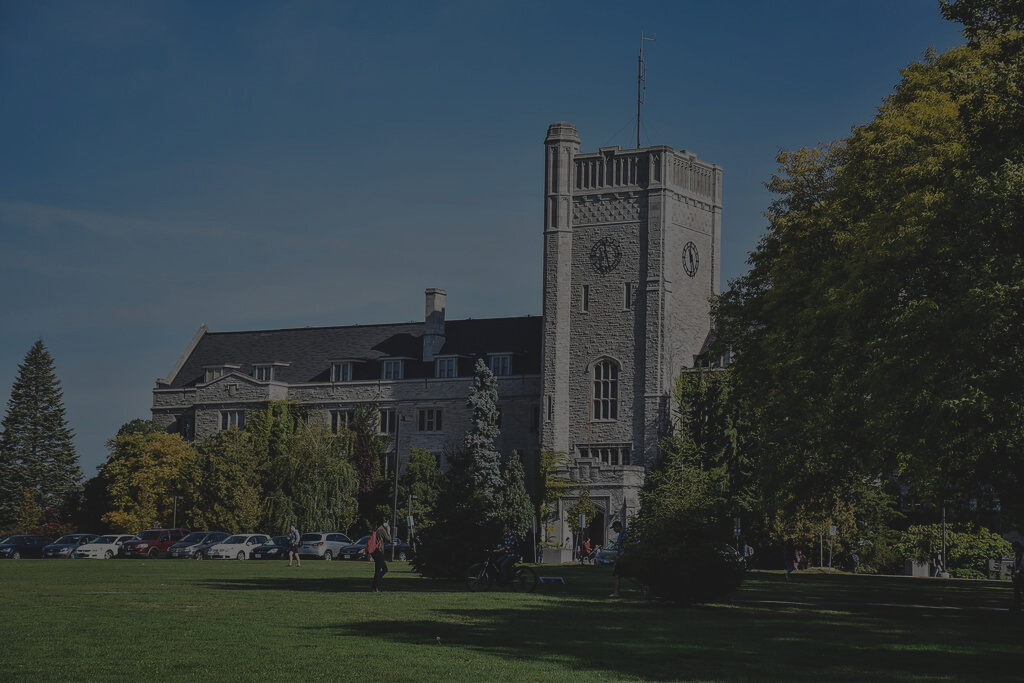
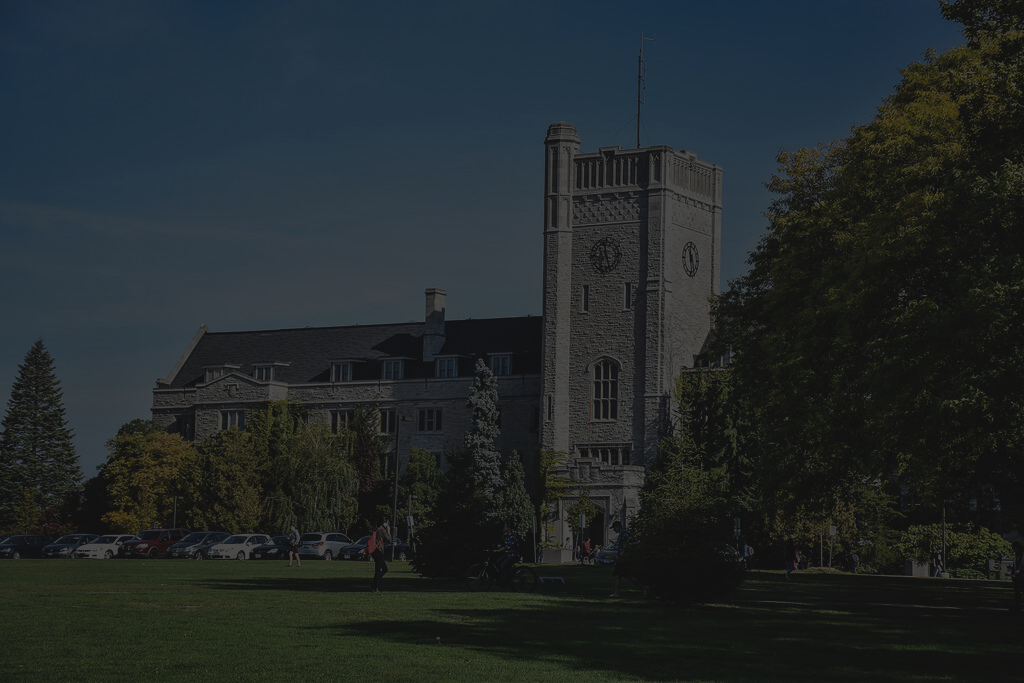
Bug fixes

diff --git a/findmyclass/src/app/components/Navbar.jsx b/findmyclass/src/app/components/Navbar.jsx
@@ -1,25 +1,31 @@
+"use client";
 import Link from "next/link";
 import Image from "next/image";
 
 export default function Navbar() {
+  const reloadSite = () => {
+    window.location.replace("/");
+  };
+
   return (
     <div className="bg-black pt-6 pb-6">
       <nav className="flex flex-row justify-center items-center">
-        <Link href="/" className="navBarLink">
-          <button className="flex flex-row text-white font-sans font-bold text-3xl ml-5 ">
-            FindMy
-            <p className="text-blue-700">
-              <em>Class</em>
-            </p>
-            <Image
-              src="/images/magnifiying.png"
-              alt="Magnifiying pic"
-              width={25}
-              height={25}
-              className="ml-1 "
-            />
-          </button>
-        </Link>
+        <button
+          onClick={reloadSite}
+          className="flex flex-row text-white font-sans font-bold text-3xl ml-5 "
+        >
+          FindMy
+          <p className="text-blue-700">
+            <em>Class</em>
+          </p>
+          <Image
+            src="/images/magnifiying.png"
+            alt="Magnifiying pic"
+            width={25}
+            height={25}
+            className="ml-1 "
+          />
+        </button>
       </nav>
     </div>
   );

diff --git a/findmyclass/src/app/page.js b/findmyclass/src/app/page.js
@@ -116,7 +116,7 @@ function PageContent() {
           <input
             type="text"
             className="p-3 w-full h-12 md:h-16 rounded-xl"
-            placeholder="Enter a classroom (e.g., ROZH103)"
+            placeholder="(e.g., ROZH103, THRN1027)"
             onChange={updateInput}
             value={inputValue}
           />

diff --git a/README.md b/README.md
@@ -1,0 +1,49 @@
+# FindMyClass
+
+Lost? Missed a turn? Introducing FindMyClass.
+
+FindMyClass is an innovative solution for all students at the University of Guelph. The full-stack application guides students to any class located on campus through step-by-step instructions paired with photos to ensure effortless navigation. With an intuitive interface, accurate time predictions powered by a machine learning algorithm, and real-world photo guidance, FindMyClass helps students save time and feel more confident about navigating their university.
+
+## Features
+
+- **Step-by-Step Navigation**: Clear, concise instructions with real-world photos to guide students across the University of Guelph campus.
+- **Time Estimation**: A K-Nearest Neighbors (KNN) machine learning algorithm predicts the time required to reach each class based on various parameters.
+- **User-Friendly Interface**: Built with Next.js, the app is fast, responsive, and accessible across devices.
+- **Database Integration**: Utilizes Supabase for efficient and reliable storage of class data and navigation steps.
+
+
+## Technologies Used
+
+-[**Next.js**](https://nextjs.org/): React-based framework for building user-friendly and performant interfaces.
+-[**Python**](https://nextjs.org/): For styling the app with a modern and responsive design.
+-[**Flask**](https://flask.palletsprojects.com/): Lightweight WSGI framework for building the REST API.
+-[**Supabase**](https://supabase.com/): A Postgres-based database service for managing class locations, photos, and other app data.
+-[**Vercel**](https://nextjs.org/): For styling the app with a modern and responsive design.
+
+
+## Installation & Steps to run locally
+1. Clone the repository:
+   ```bash
+   git clone https://github.com/TalhaNaveed1/FindMyClass-Guelph
+   cd FindMyClass-Guelph
+   ```
+2. Navigate to the backend and install the required packages:
+   ```bash
+   cd backend
+   pip install -r requirements.txt
+   ```
+3. Create and activate a virtual environment:
+   ```bash
+   python3 -m venv venv
+   source venv/bin/activate
+   ```
+4. Install the required packages for the frontend:
+   ```bash
+   cd findmyclass
+   npm install
+   ```
+5. Run the application:
+   ```bash
+   npm run dev
+   ```
+   
